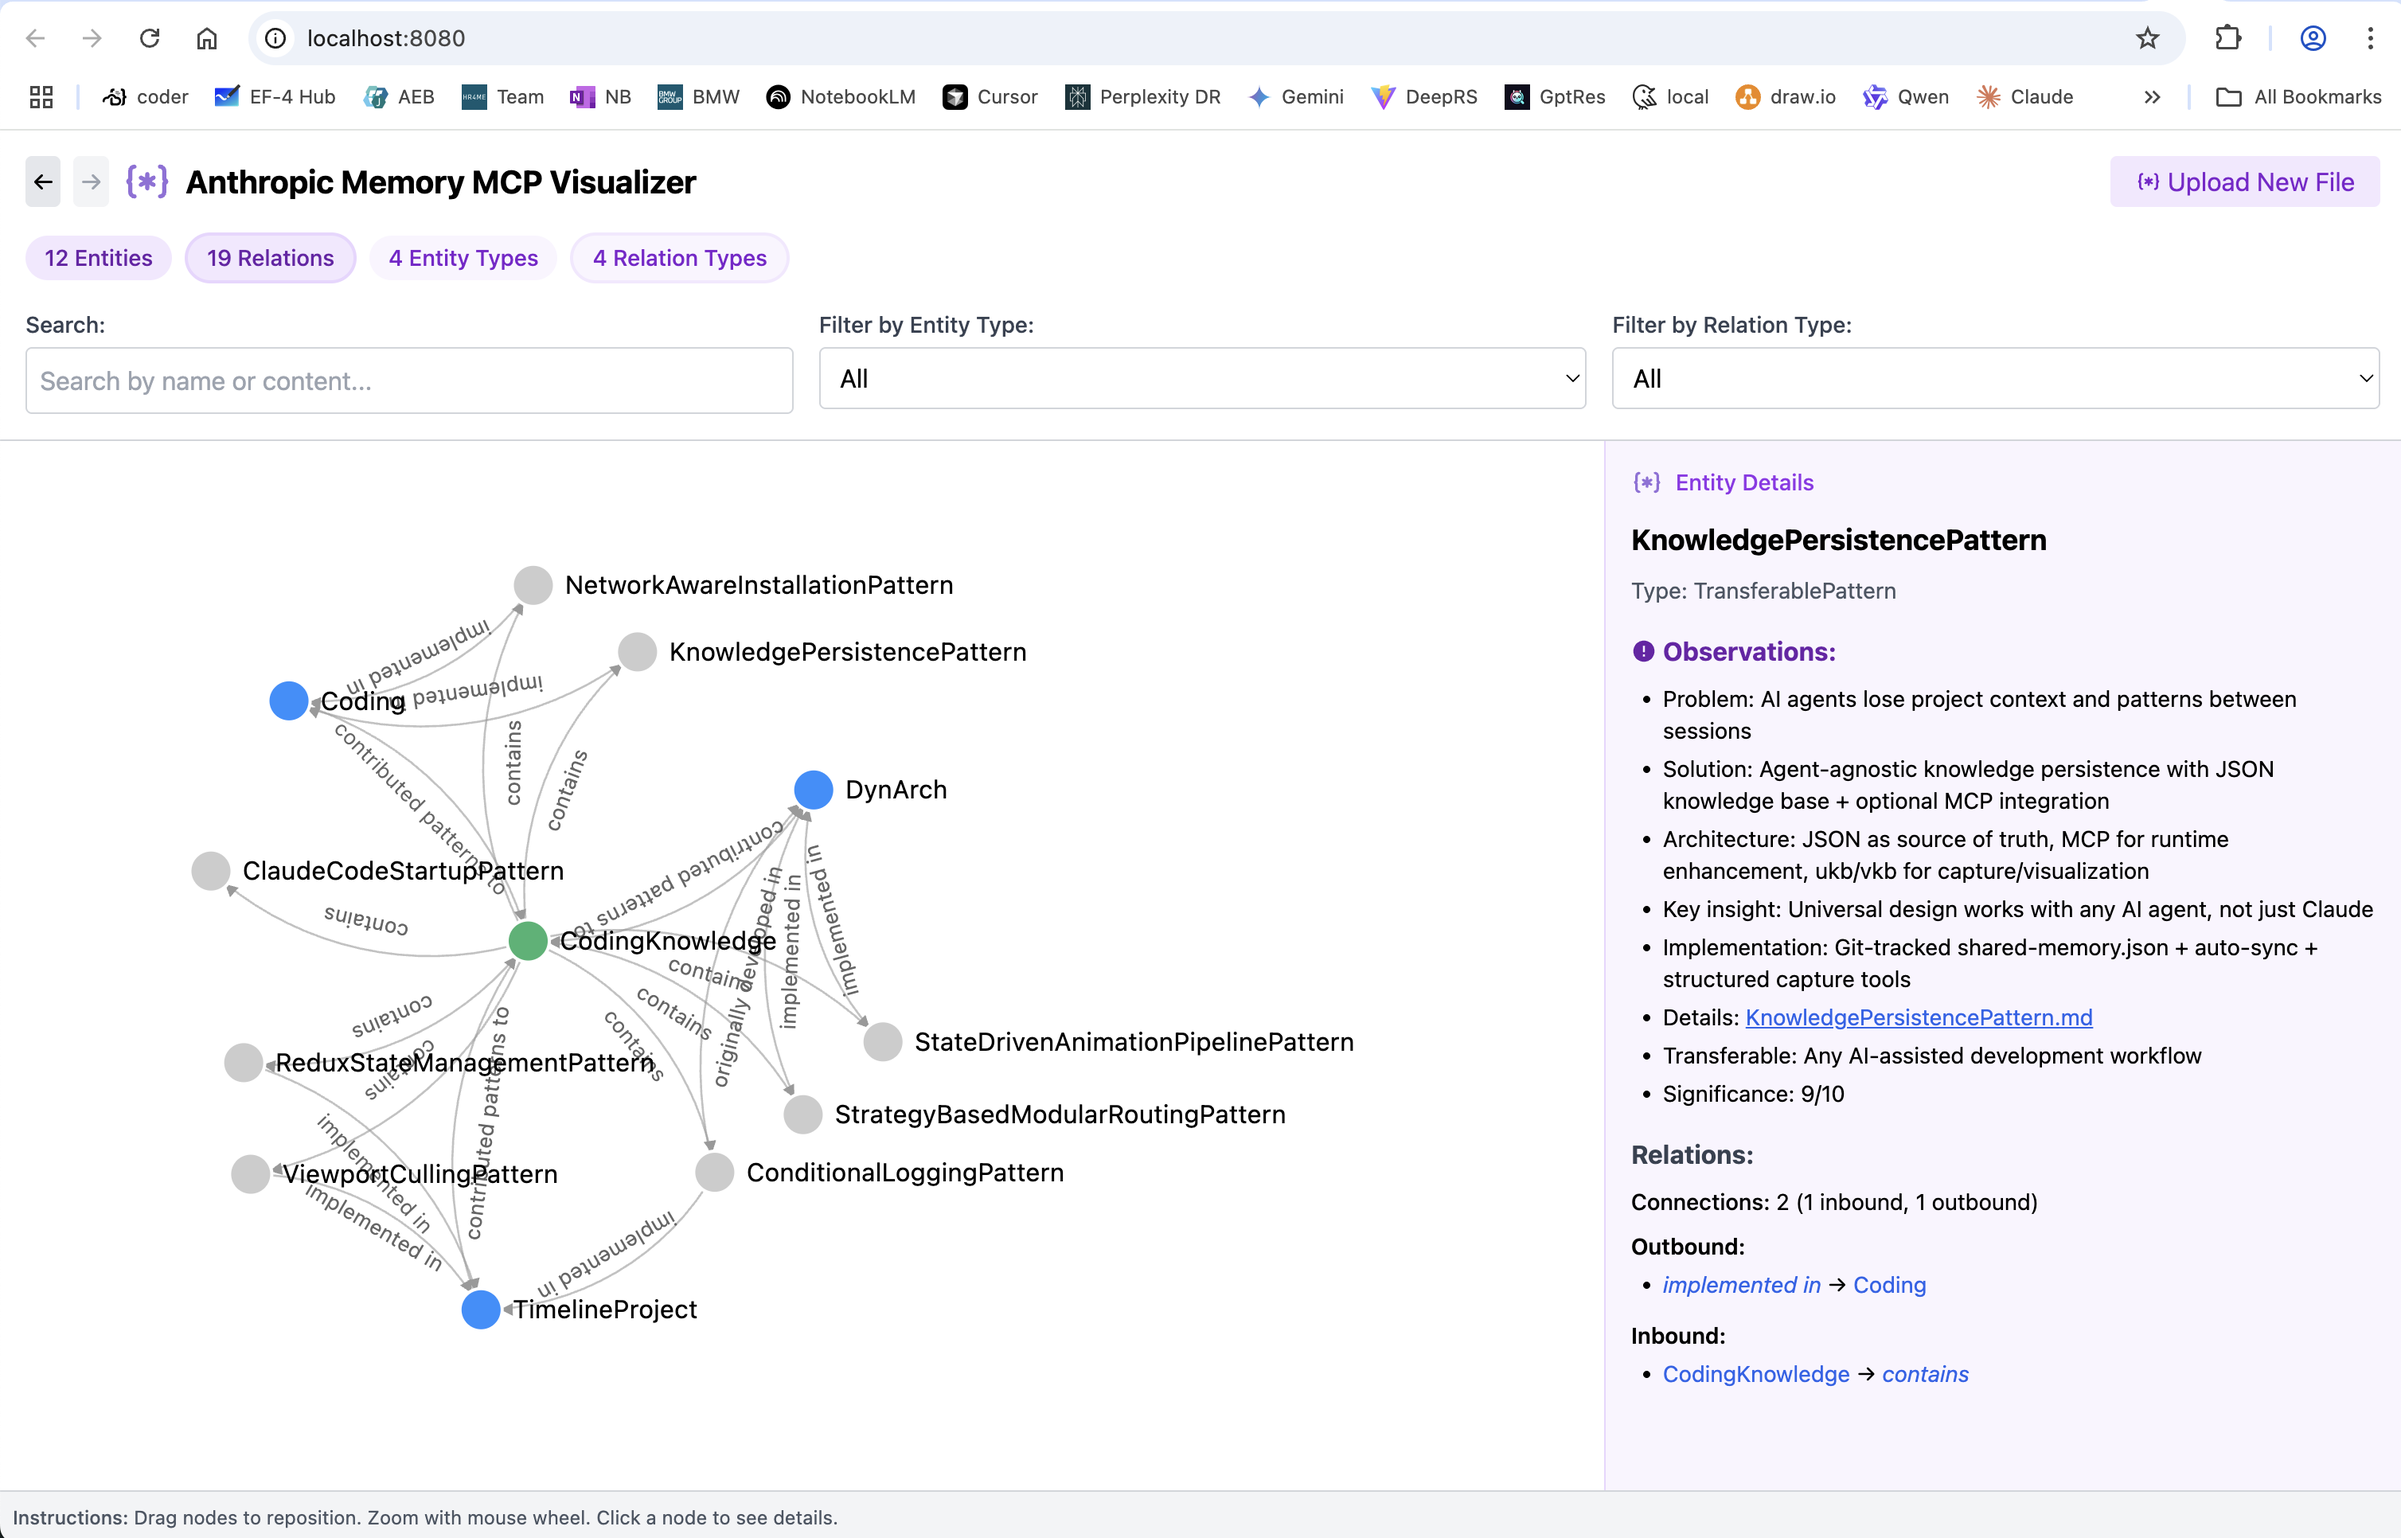
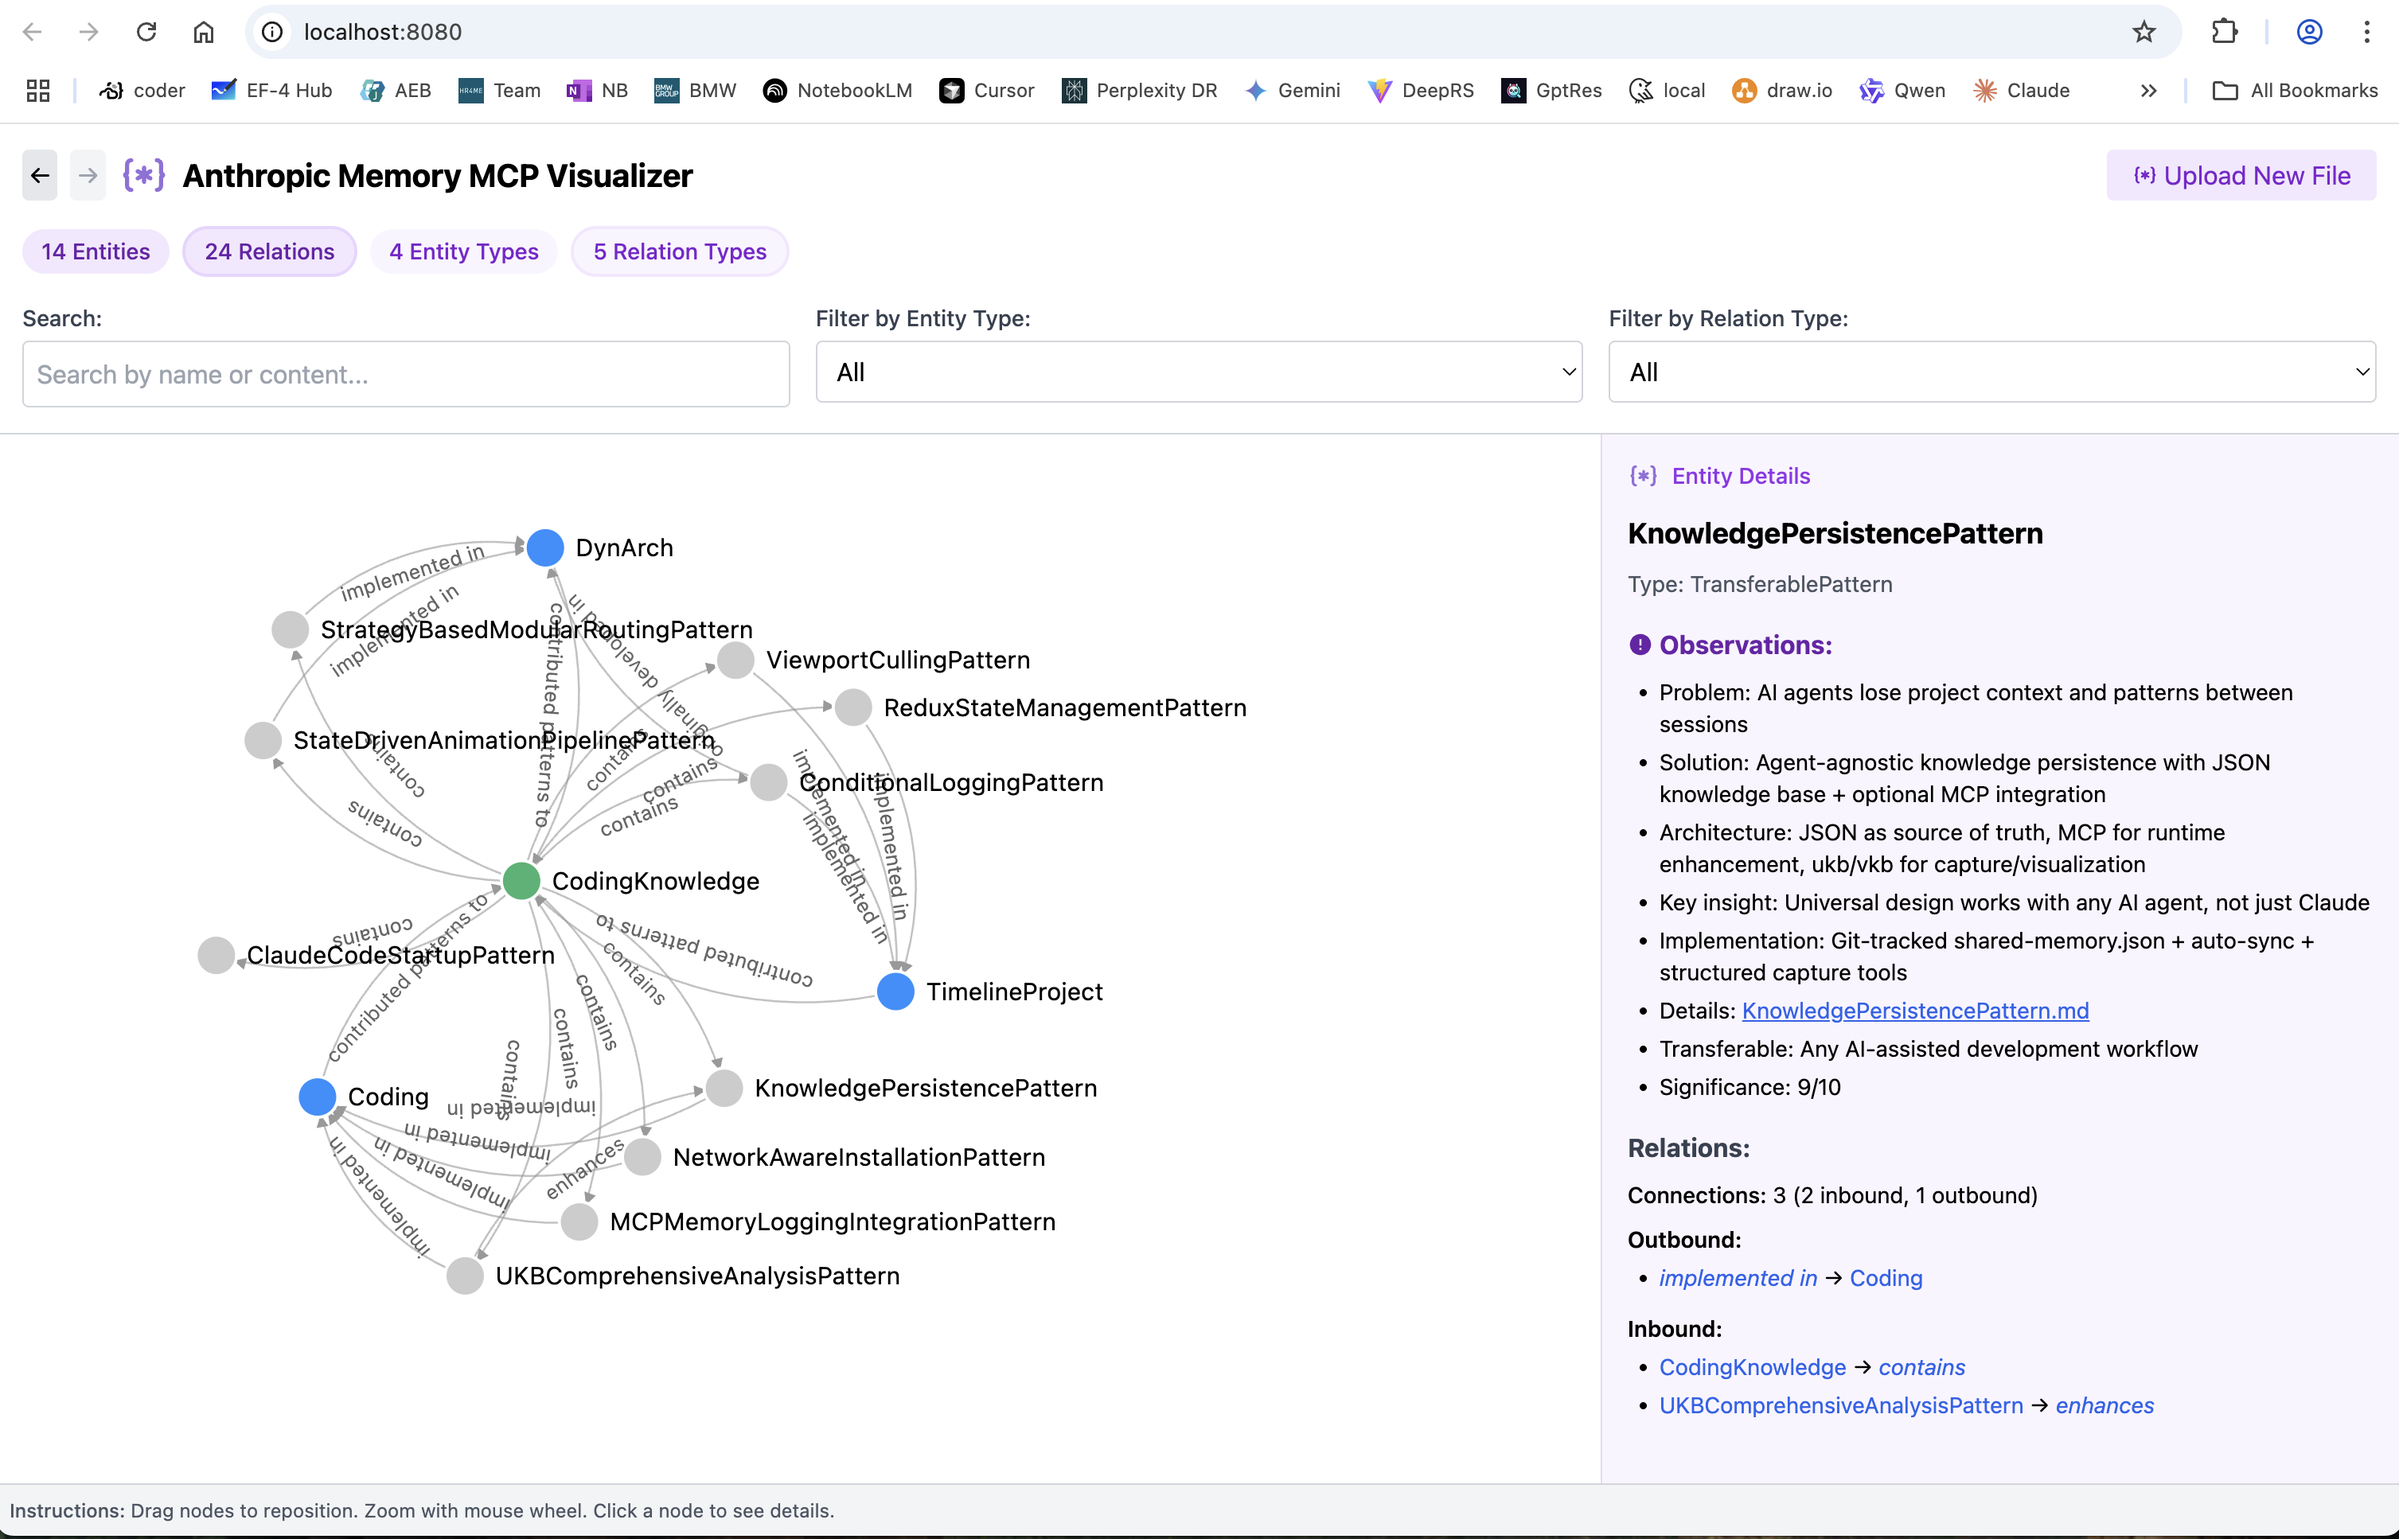
fix: bugfixes in ukb & vkb after schema update from 1.0.0 to 2.0.0 (shared-memory.json)

diff --git a/knowledge-management/scripts/migrate-entities.js b/knowledge-management/scripts/migrate-entities.js
@@ -188,10 +188,8 @@ function migrateKnowledgeBase() {
     process.exit(1);
   }
 
-  // Backup current file
-  const backupPath = KNOWLEDGE_BASE_PATH.replace('.json', `-backup-${Date.now()}.json`);
-  fs.writeFileSync(backupPath, JSON.stringify(kb, null, 2));
-  console.log(`📦 Backup created: ${backupPath}\n`);
+  // Skip backup creation - git provides version control
+  console.log(`📦 Using git for version control (no backup file created)\n`);
 
   // Migrate entities
   const migratedEntities = kb.entities.map(migrateEntity);

diff --git a/.mcp-sync/auto-sync.md b/.mcp-sync/auto-sync.md
@@ -52,17 +52,19 @@ console.log(`✅ MCP Memory loaded: ${graphState.nodes?.length || 0} entities, $
 
 ## Current Knowledge Base Summary
 
-**Entities to sync:** 24
-**Relations to sync:** 26
+**Entities to sync:** 14
+**Relations to sync:** 24
 
 **Key Patterns Available:**
-- ConditionalLoggingPattern (significance: 8)
-- ViewportCullingPattern (significance: 8)
-- ReduxStateManagementPattern (significance: 8)
-- KnowledgePersistencePattern (significance: 9)
-- NetworkAwareInstallationPattern (significance: 9)
-- StateDrivenAnimationPipelinePattern (significance: 8)
-- ClaudeCodeStartupPattern (significance: 10)
-- StrategyBasedModularRoutingPattern (significance: 8)
+- ConditionalLoggingPattern (significance: null)
+- ViewportCullingPattern (significance: null)
+- ReduxStateManagementPattern (significance: null)
+- KnowledgePersistencePattern (significance: null)
+- NetworkAwareInstallationPattern (significance: null)
+- StateDrivenAnimationPipelinePattern (significance: null)
+- ClaudeCodeStartupPattern (significance: null)
+- StrategyBasedModularRoutingPattern (significance: null)
+- MCPMemoryLoggingIntegrationPattern (significance: null)
+- UKBComprehensiveAnalysisPattern (significance: null)
 
-**Sync prepared at:** Mon Jun 16 09:27:21 CEST 2025
+**Sync prepared at:** Mon Jun 16 11:10:17 CEST 2025
